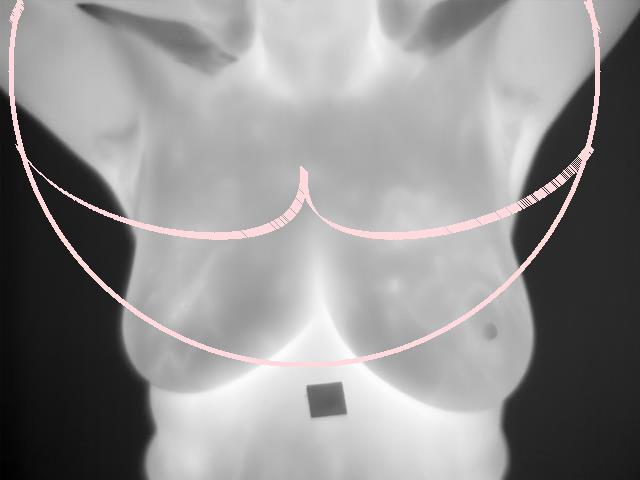
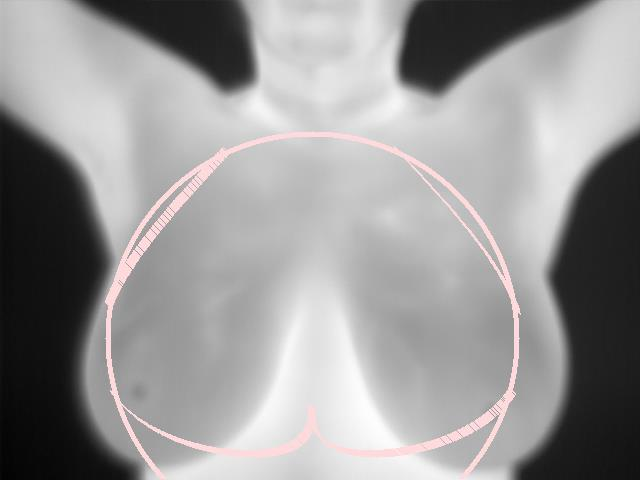
Paralelo errado

diff --git a/src/GATIS/Principal.java b/src/GATIS/Principal.java
@@ -1,6 +1,5 @@
 package GATIS;
 
-import java.io.IOException;
 import java.util.ArrayList;
 import java.util.concurrent.CountDownLatch;
 
@@ -9,19 +8,33 @@ import image.Image;
 
 public class Principal {
 	
-	static int n = 3;
+	static int n = 12;
+	
 	
 	public static void main(String[] args) throws Exception {
-		Image img = new Image("C:/Users/Lucas C Mendes/Documents/JAVA/GATIS/src/GATIS/img1.jpg");
-		img.convertToRGB();
+		ArrayList<Individual> top = new ArrayList<Individual>();
+		GA a = new GA();
+		Image img = new Image("C:/Users/Lucas C Mendes/Documents/JAVA/GATIS/src/GATIS/img5.jpg");
+		CountDownLatch latch = new CountDownLatch(n);
 		
-		ArrayList<Thread> lista = new ArrayList<Thread>();
+		ArrayList<MinhaThread> lista = new ArrayList<MinhaThread>();
 		
 		for(int i = 0 ; i < n ; i++) {
-			lista.add(new Thread(new MeuRunnable(img)));
-			lista.get(i).start();
+			lista.add(new MinhaThread(img,i,latch));
+			lista.get(i).start();			
 		}
-
+		try {
+			latch.await();//wait for n*2 threads to signal the latch
+		} catch (InterruptedException e) {
+			e.printStackTrace();
+		}
+		for(int i = 0 ; i < n ; i++) {
+			lista.get(i).a.getTop5(top);
+		}
+		a.initPop(top);
+		a.run(img);
+		top.get(a.POP-1).draw(img);
+		img.exportImage("C:/Users/Lucas C Mendes/Documents/JAVA/GATIS/src/GATIS/resultado.jpg", "jpg");
 	}
 
 }

diff --git a/src/GATIS/MeuRunnable.java b/src/GATIS/MeuRunnable.java
@@ -1,7 +1,5 @@
 package GATIS;
 
-import java.util.concurrent.CountDownLatch;
-
 import image.Image;
 
 public class MeuRunnable implements Runnable{
@@ -9,21 +7,24 @@ public class MeuRunnable implements Runnable{
 	Image img;
 	
 
-	public  MeuRunnable(Image img) {
+	public  MeuRunnable(Image img) throws Exception {
 		this.img = new Image(img);
+		this.img.convertToRGB();
 	}
 	
 	
 	@Override
 	public void run() {
 		a = new GA();
-		a.run(img);
+		a.run(this.img);
+		a.pop.get(a.(POP-1)).draw(img);
 		try {
 			img.exportImage("C:/Users/Lucas C Mendes/Documents/JAVA/GATIS/src/GATIS/XXXXXXX.jpg", "jpg");
 		} catch (Exception e) {
 			// TODO Auto-generated catch block
 			e.printStackTrace();
 		}
+		
 	}
 
 }

diff --git a/src/GATIS/MinhaThread.java b/src/GATIS/MinhaThread.java
@@ -1,0 +1,30 @@
+package GATIS;
+
+import java.util.concurrent.CountDownLatch;
+
+import image.Image;
+
+public class MinhaThread extends Thread{
+	private final CountDownLatch doneSignal;
+	private int threadID;
+	
+	public GA a;
+	Image img;
+	
+	
+	MinhaThread(Image img, int id, CountDownLatch doneSignal){
+		this.img = new Image(img);
+		this.doneSignal = doneSignal;
+		threadID = id;
+	}
+	
+	public void run() {
+		
+		a = new GA();
+		a.initPop(img);
+		a.run(this.img);
+		doneSignal.countDown();
+		System.out.println("id : "+this.threadID);
+				
+	}
+}
